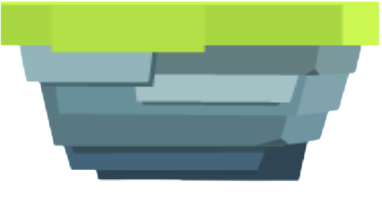
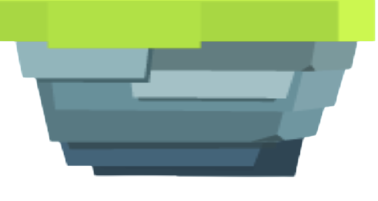
islandFactory

diff --git a/src/main/java/game/GameController.java b/src/main/java/game/GameController.java
@@ -1,7 +1,9 @@
 package game;
 
-import javafx.animation.*;
-import javafx.event.ActionEvent;
+import javafx.animation.Animation;
+import javafx.animation.KeyFrame;
+import javafx.animation.Timeline;
+import javafx.animation.TranslateTransition;
 import javafx.fxml.FXML;
 import javafx.fxml.FXMLLoader;
 import javafx.fxml.Initializable;
@@ -9,16 +11,12 @@ import javafx.scene.Group;
 import javafx.scene.Node;
 import javafx.scene.Parent;
 import javafx.scene.Scene;
-import javafx.scene.image.Image;
 import javafx.scene.image.ImageView;
+import javafx.scene.input.MouseEvent;
 import javafx.scene.layout.AnchorPane;
 import javafx.scene.layout.Pane;
 import javafx.scene.text.Text;
 import javafx.stage.Stage;
-
-import javax.imageio.IIOException;
-
-import javafx.scene.input.MouseEvent;
 import javafx.util.Duration;
 
 import java.io.IOException;
@@ -67,6 +65,12 @@ public class GameController implements Initializable {
     private ImageView ROrc2;
     private ImageView ROrc3;
     private ImageView Boss;
+
+    private ImageView isl1;
+    private ImageView isl2;
+    private ImageView isl3;
+    private ImageView isl4;
+    private ImageView isl5;
 
 
     private Pane Chests;
@@ -145,8 +149,9 @@ public class GameController implements Initializable {
 //        ROrc1 = new Pane();
 //        ROrc2 = new Pane();
 //        ROrc3 = new Pane();
-        orcSetUP();
 
+        islandSetUp();
+        orcSetUP();
         heroSetUp(heroCode);
         setUp();
         heroAll.setLayoutY(200);
@@ -182,7 +187,8 @@ public class GameController implements Initializable {
         } catch (IOException e) {
             e.printStackTrace();
         }
-        ImageView heroNormal = (ImageView)h.getObsPane().getChildren().get(0);
+        assert h != null;
+        ImageView heroNormal = (ImageView) h.getObsPane().getChildren().get(0);
 
         ImageView heroKnife = (ImageView) h.getObsPane().getChildren().get(1);
 
@@ -217,6 +223,13 @@ public class GameController implements Initializable {
         Boss = (ImageView) greenOrc.getObsPane().getChildren().get(2);
     }
 
+    public void islandSetUp(){
+        isl1 = (ImageView) island.getObsPane().getChildren().get(0);
+        isl2 = (ImageView) island.getObsPane().getChildren().get(1);
+        isl3 = (ImageView) island.getObsPane().getChildren().get(2);
+        isl4 = (ImageView) island.getObsPane().getChildren().get(3);
+        isl5 = (ImageView) island.getObsPane().getChildren().get(4);
+    }
 
     public void orcFactory(int code, int x, int y){
         switch(code) {
@@ -240,45 +253,61 @@ public class GameController implements Initializable {
                 ROrc3.setY(y);
                 ROrc3.setX(x);
                 break;
+            case 6:
+                Boss.setY(y);
+                Boss.setX(x);
+                break;
+        }
+    }
+
+    public void islandFactory(int code, int x){
+        switch (code){
+            case 1:
+                isl1.setX(x);
+                isl1.setY(300);
+                break;
+            case 2:
+                isl2.setX(x);
+                isl2.setY(325);
+                break;
+            case 3:
+                isl3.setX(x);
+                isl3.setY(310);
+                break;
+            case 4:
+                isl4.setX(x);
+                isl4.setY(300);
+                break;
+            case 5:
+                isl5.setX(x);
+                isl5.setY(300);
+                break;
         }
     }
 
     public void setUp(){
         //grp1
-        enemies.add(greenOrc);
-        //GOrc1 = (ImageView) greenOrc.getObsPane().getChildren().get(0);
-        GOrc1.setY(200);
-        GOrc1.setX(625);
+        //enemies.add(greenOrc);
+        orcFactory(1,625,200);
+        orcFactory(2,670,200);
 
-        GOrc2.setY(200);
-        GOrc2.setX(680);
-
-        enemies.add(greenOrc);
-
-
-        ImageView isl1 = (ImageView) island.getObsPane().getChildren().get(0);
-        //isl1.setX(-10);
-        //isl1.setY(300);
-
-        ImageView isl2 = (ImageView) island.getObsPane().getChildren().get(1);
-//        isl2.setX(575);
-//        isl2.setY(325);
+        islandFactory(1,-10);
+        islandFactory(2,575);
 
         ImageView ch1 = (ImageView) chest.getObsPane().getChildren().get(0);
         ch1.setX(750);
         ch1.setY(280);
-
 
         grp1.getChildren().addAll(isl1);
         grp2.getChildren().addAll(isl2, GOrc1, GOrc2, ch1);
 //        grp1.setLayoutX(0);
 //        grp1.setLayoutY(300);
 
-        grp1.getChildren().get(0).setLayoutY(300);
-        grp1.getChildren().get(0).setLayoutX(-10);
+//        grp1.getChildren().get(0).setLayoutY(300);
+//        grp1.getChildren().get(0).setLayoutX(-10);
 
-        grp2.getChildren().get(0).setLayoutY(325);
-        grp2.getChildren().get(0).setLayoutX(575);
+//        grp2.getChildren().get(0).setLayoutY(325);
+//        grp2.getChildren().get(0).setLayoutX(575);
 
 
 //        grp2.getChildren().get(1).setLayoutY(50);
@@ -292,6 +321,7 @@ public class GameController implements Initializable {
         //hero.getControl().Jump(island1);
         greenOrc.getController().jumpOrc(island, 325);
         greenOrc1.getController().jumpOrc(island, 325);
+
 
     }
 

diff --git a/src/main/java/game/IslandsController.java b/src/main/java/game/IslandsController.java
@@ -37,12 +37,6 @@ public class IslandsController {
         int arr[] = new int[5];
         //return n1.getBoundsInParent().intersects(rock1.getBoundsInParent().getMinX(), rock1.getBoundsInParent().getMinY(), rock1.getBoundsInParent().getWidth(), 10) || n1.getBoundsInParent().intersects(rock2.getBoundsInParent().getMinX(), rock2.getBoundsInParent().getMinY(), rock2.getBoundsInParent().getWidth(), 10)  || rock3.getBoundsInParent().intersects(n1.getBoundsInParent()) || rock4.getBoundsInParent().intersects(n1.getBoundsInParent()) || rock5.getBoundsInParent().intersects(n1.getBoundsInParent());
         if(rock1.getBoundsInParent().intersects(n1.getBoundsInParent())){
-//            if(n1.getBoundsInParent().intersects(b1.getBoundsInParent())){
-//                arr[0] = 1;
-//                arr[1] = 300;
-//                arr[2] = 1;
-//                return arr;
-//            }
             if(n1.getBoundsInParent().getMaxY()>303){
                 arr[0] = 1;
                 arr[1] = 300;
@@ -56,29 +50,50 @@ public class IslandsController {
             return arr;
         }
         else if(n1.getBoundsInParent().intersects(rock2.getBoundsInParent())){
-//            if(n1.getBoundsInParent().intersects(b1.getBoundsInParent())){
-//                System.out.println("jjj");
-//                arr[0] = 1;
-//                arr[1] = 325;
-//                arr[2] = 1;
-//                return arr;
-//            }
             if(n1.getBoundsInParent().getMaxY()>327){
                 arr[0] = 1;
                 arr[1] = 325;
                 arr[2] = 1;
                 return arr;
             }
-            //System.out.println("hhh" + n1.getBoundsInParent().getMaxY());
-            //System.out.println(rock2.getBoundsInParent().getMinX() + " " + rock2.getBoundsInParent().getMinY());
             arr[0] = 1;
             arr[1] = 325;
             arr[2] = 0;
             return arr;
         }
-        else if(rock3.getBoundsInParent().intersects(n1.getBoundsInParent())){
+        else if(n1.getBoundsInParent().intersects(rock3.getBoundsInParent())){
+            if(n1.getBoundsInParent().getMaxY()>313){
+                arr[0] = 1;
+                arr[1] = 310;
+                arr[2] = 1;
+                return arr;
+            }
             arr[0] = 1;
             arr[1] = 310;
+            return arr;
+        }
+        else if(n1.getBoundsInParent().intersects(rock4.getBoundsInParent())){
+            if(n1.getBoundsInParent().getMaxY()>303){
+                arr[0] = 1;
+                arr[1] = 300;
+                arr[2] = 1;
+                return arr;
+            }
+            arr[0] = 1;
+            arr[1] = 300;
+            arr[2] = 0;
+            return arr;
+        }
+        else if(n1.getBoundsInParent().intersects(rock5.getBoundsInParent())){
+            if(n1.getBoundsInParent().getMaxY()>303){
+                arr[0] = 1;
+                arr[1] = 300;
+                arr[2] = 1;
+                return arr;
+            }
+            arr[0] = 1;
+            arr[1] = 300;
+            arr[2] = 0;
             return arr;
         }
         else{
